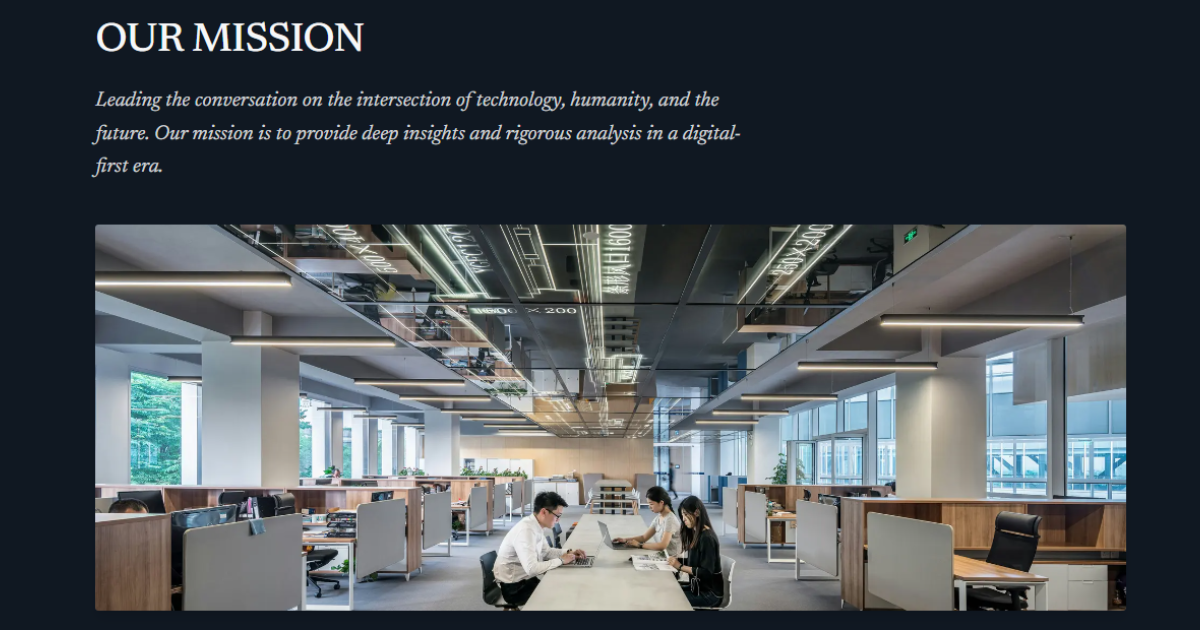
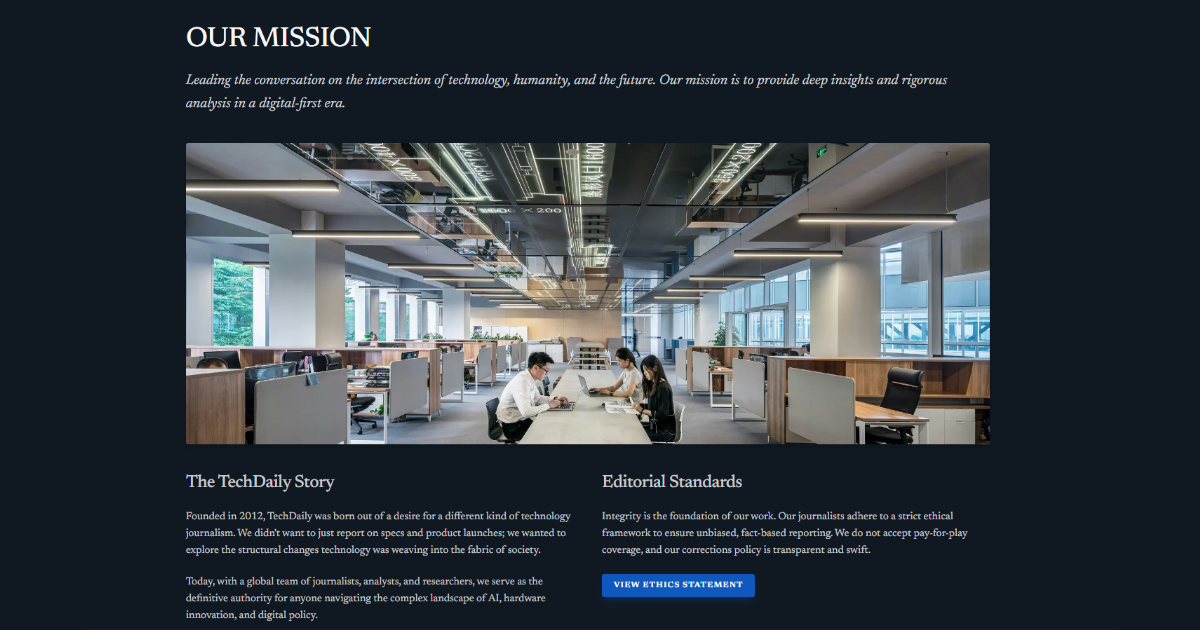
feat: Add dedicated pages for about, cookies, privacy, and terms, along with a new open graph image.

diff --git a/app/about/page.tsx b/app/about/page.tsx
@@ -6,7 +6,7 @@ export default function AboutPage() {
   return (
     <div className="relative flex min-h-screen flex-col">
       <main className="flex-1">
-        <section className="container mx-auto max-w-[1440px] px-4 sm:px-6 lg:px-8 py-16 md:py-24 space-y-12">
+        <section className="container mx-auto max-w-7xl px-4 sm:px-6 lg:px-8 py-16 md:py-24 space-y-12">
           <div className="space-y-6 text-left">
             <Typography variant="h1" className="uppercase text-left">
               Our Mission

diff --git a/app/cookies/page.tsx b/app/cookies/page.tsx
@@ -6,7 +6,7 @@ export default function CookiesPage() {
   return (
     <div className="relative flex min-h-screen flex-col">
       <main className="flex-1">
-        <section className="container mx-auto max-w-[1440px] px-4 sm:px-6 lg:px-8 py-16 md:py-24">
+        <section className="container mx-auto max-w-7xl px-4 sm:px-6 lg:px-8 py-16 md:py-24 space-y-12">
           <div className="space-y-4 mb-20 text-left">
             <Typography variant="caption" className="text-primary font-bold">
               Legal

diff --git a/app/privacy/page.tsx b/app/privacy/page.tsx
@@ -6,7 +6,7 @@ export default function PrivacyPage() {
   return (
     <div className="relative flex min-h-screen flex-col">
       <main className="flex-1">
-        <section className="container mx-auto max-w-[1440px] px-4 sm:px-6 lg:px-8 py-16 md:py-24">
+        <section className="container mx-auto max-w-7xl px-4 sm:px-6 lg:px-8 py-16 md:py-24 space-y-12">
           <div className="space-y-4 mb-20 text-left">
             <Typography variant="caption" className="text-primary font-bold">
               Legal

diff --git a/app/terms/page.tsx b/app/terms/page.tsx
@@ -6,7 +6,7 @@ export default function TermsPage() {
   return (
     <div className="relative flex min-h-screen flex-col">
       <main className="flex-1">
-        <section className="container mx-auto max-w-[1440px] px-4 sm:px-6 lg:px-8 py-16 md:py-24">
+        <section className="container mx-auto max-w-7xl px-4 sm:px-6 lg:px-8 py-16 md:py-24 space-y-12">
           <div className="space-y-4 mb-20 text-left">
             <Typography variant="caption" className="text-primary font-bold">
               Legal
